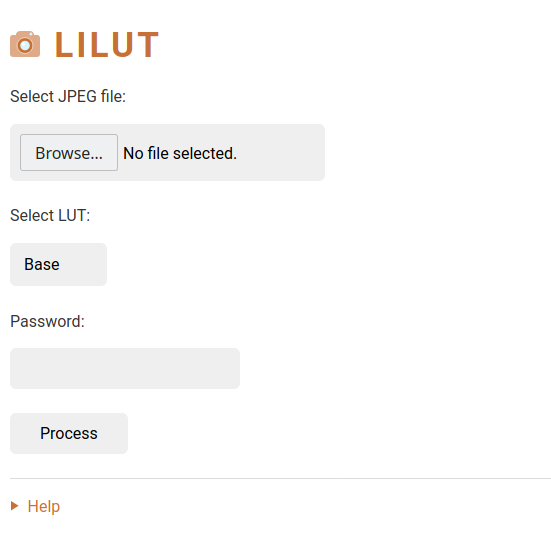
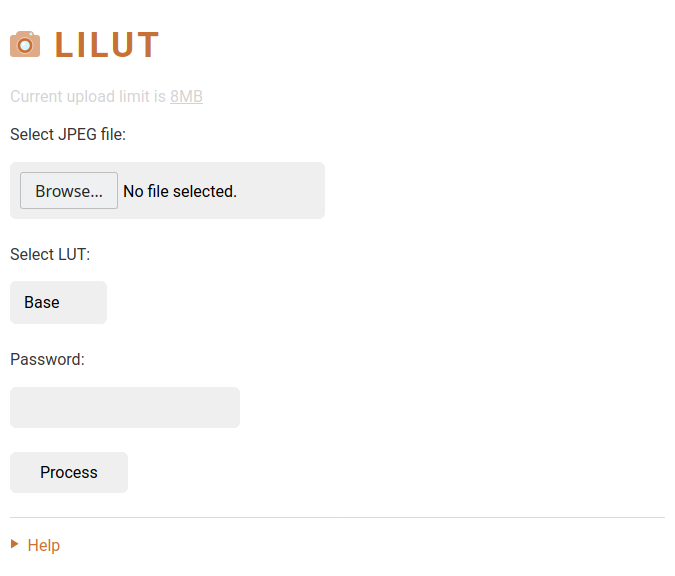
Show upload limit

diff --git a/index.php b/index.php
@@ -13,6 +13,10 @@
 
 <body>
 	<?php
+	$max_upload = (int)(ini_get('upload_max_filesize'));
+	$max_post = (int)(ini_get('post_max_size'));
+	$memory_limit = (int)(ini_get('memory_limit'));
+	$upload_mb = min($max_upload, $max_post, $memory_limit);
 	if (!file_exists('uploads')) {
 		mkdir('uploads', 0777, true);
 	}
@@ -22,7 +26,7 @@
 	?>
 	<img style="display: inline; height: 1.6em;" src="favicon.svg" alt="logo" />
 	<h1 style="display: inline; height: 2em; margin-left: 0.3em; letter-spacing: 3px; color: rgb(200, 113, 55);">LILUT</h1>
-
+	<p style="color: lightgray;">Current upload limit is <u><?php echo $upload_mb; ?>MB</u></p>
 	<form action="process.php" method="POST" enctype="multipart/form-data">
 		<p>Select JPEG file:</p>
 		<input style="margin-bottom: 1.5em;" type="file" name="fileToUpload" id="fileToUpload">
